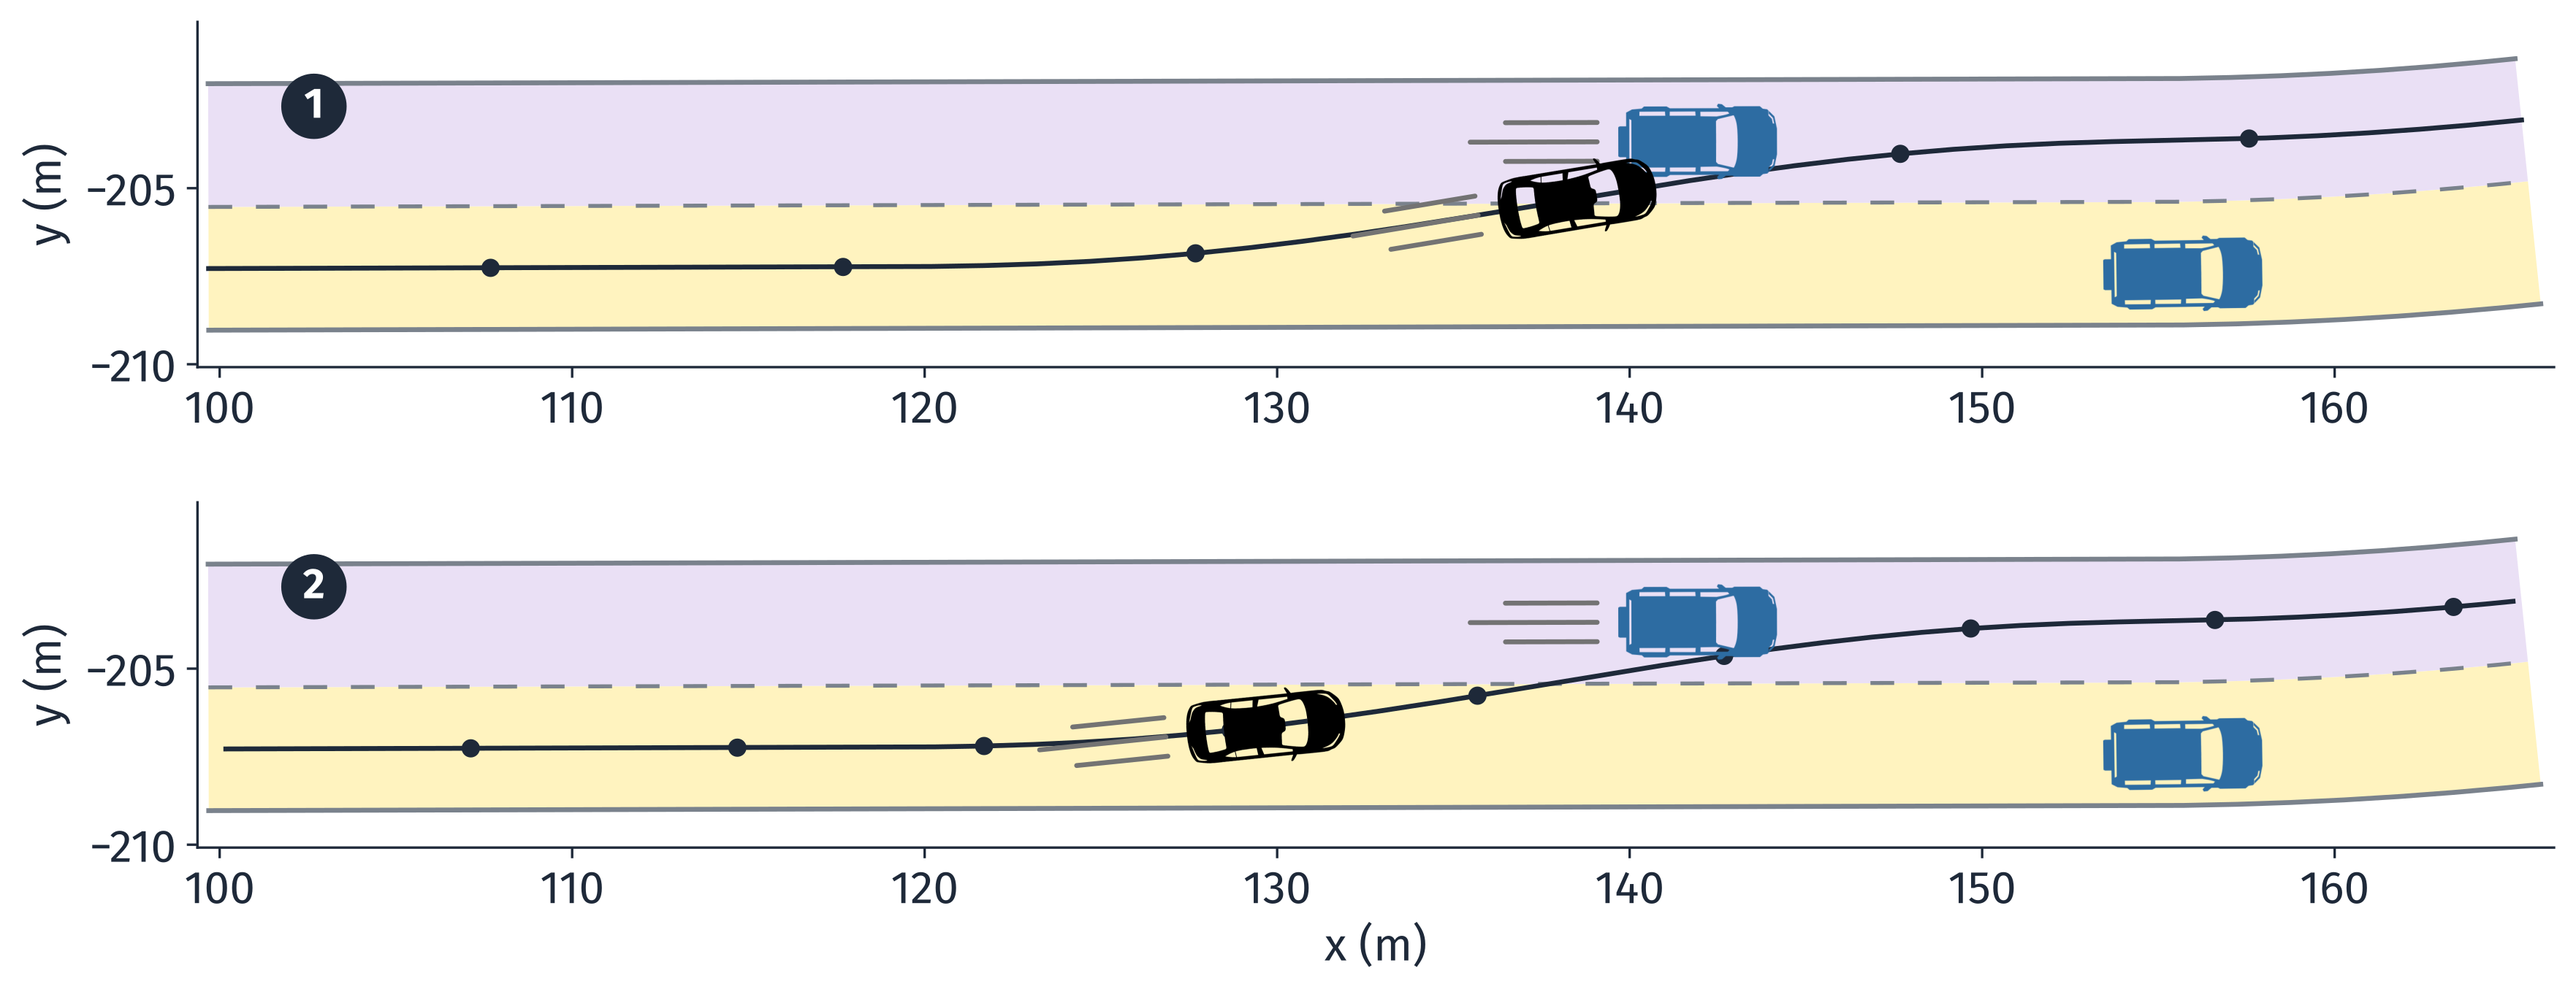
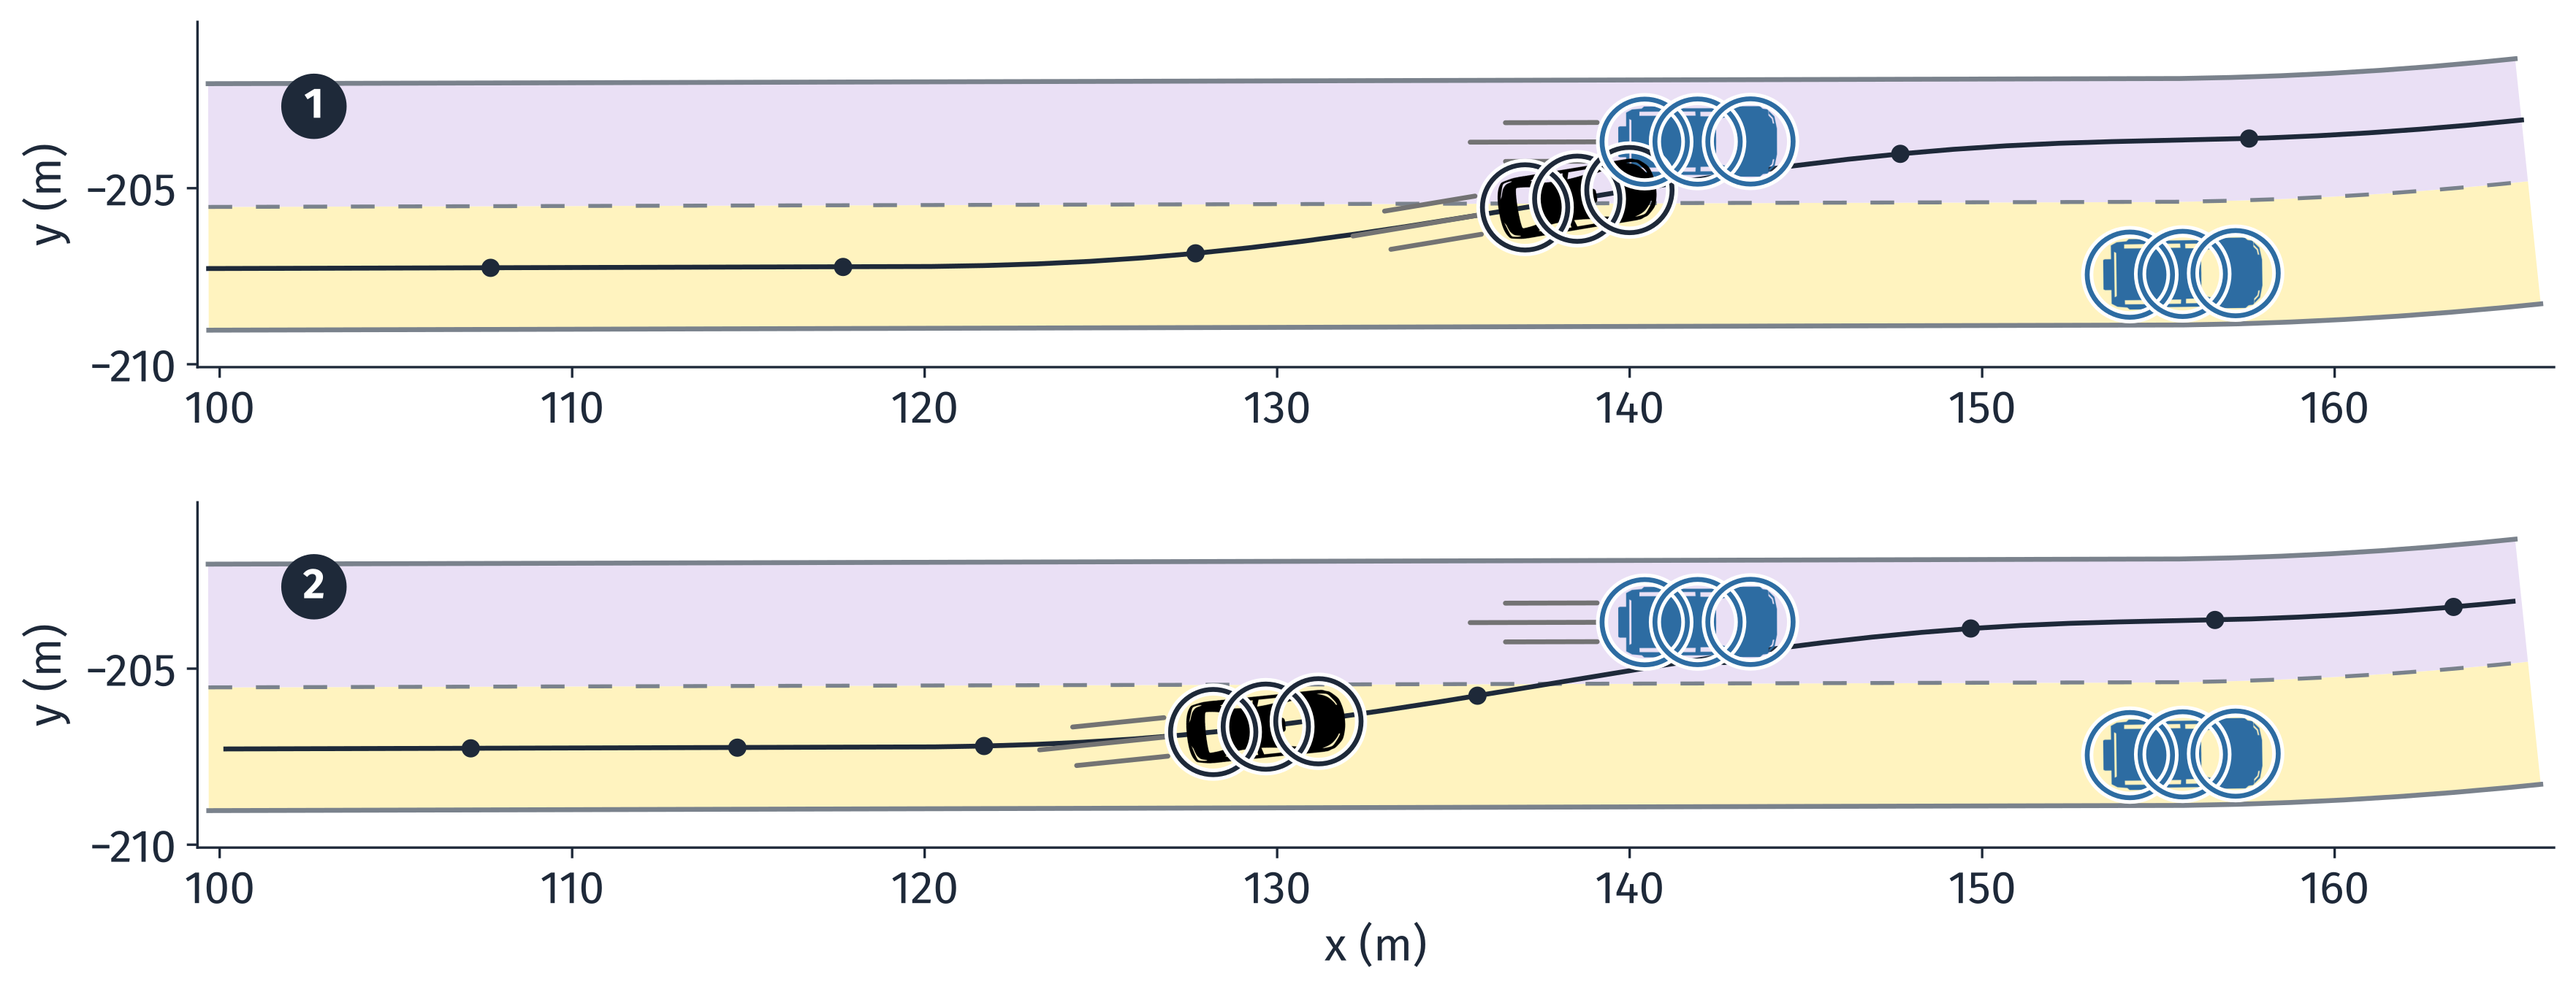
L10: the collision circles around each car in the two-timings figure

diff --git a/docs/source/lectures/lecture10/l10_lecture.rst b/docs/source/lectures/lecture10/l10_lecture.rst
@@ -1100,7 +1100,7 @@ Same Path, Two Timings: One Meets Car B, the Other Does Not
    **path** says only where.
 
 .. figure:: /_static/images/L10/traj_two_timings.png
-   :alt: Two top views of the same stretch of road, to scale, one above the other, dark tags 1 and 2. Short gray lines trail behind each moving car to show that it moves; the parked car has none. Both show the same black line: it keeps the right lane, then curves smoothly into the left lane's center. Black dots on the line mark each second. Top, tag 1: the dots are evenly spaced; the black AV is crossing the dashed lane line, and the blue car B is right beside and slightly ahead of it, the two bodies touching. Bottom, tag 2: the dots are closer together at first; the AV is still in the right lane, well behind car B, which is in the left lane. The blue parked car is in the right lane at the right of both views.
+   :alt: Two top views of the same stretch of road, to scale, one above the other, dark tags 1 and 2. Short gray lines trail behind each moving car to show that it moves; the parked car has none. Three circles cover each car, the ones the collision check compares: at tag 1 the AV's front circle overlaps car B's rear circle; at tag 2 they are far apart. Both show the same black line: it keeps the right lane, then curves smoothly into the left lane's center. Black dots on the line mark each second. Top, tag 1: the dots are evenly spaced; the black AV is crossing the dashed lane line, and the blue car B is right beside and slightly ahead of it, the two bodies touching. Bottom, tag 2: the dots are closer together at first; the AV is still in the right lane, well behind car B, which is in the left lane. The blue parked car is in the right lane at the right of both views.
    :width: 90%
    :align: center
 
@@ -1110,7 +1110,9 @@ Same Path, Two Timings: One Meets Car B, the Other Does Not
    :class: tip
 
    Both views show the same path, with a dot marking each second. Both are
-   drawn at :math:`t` = 3.95 s, when car B is at :math:`s` = 104.25 m.
+   drawn at :math:`t` = 3.95 s, when car B is at :math:`s` = 104.25 m. Three
+   circles cover each car: the ones the collision check compares (last
+   class).
 
    - **Tag 1:** 10 m/s all the way. The AV is at :math:`s` = 99.5 m, almost
      on the lane line, right beside car B.
